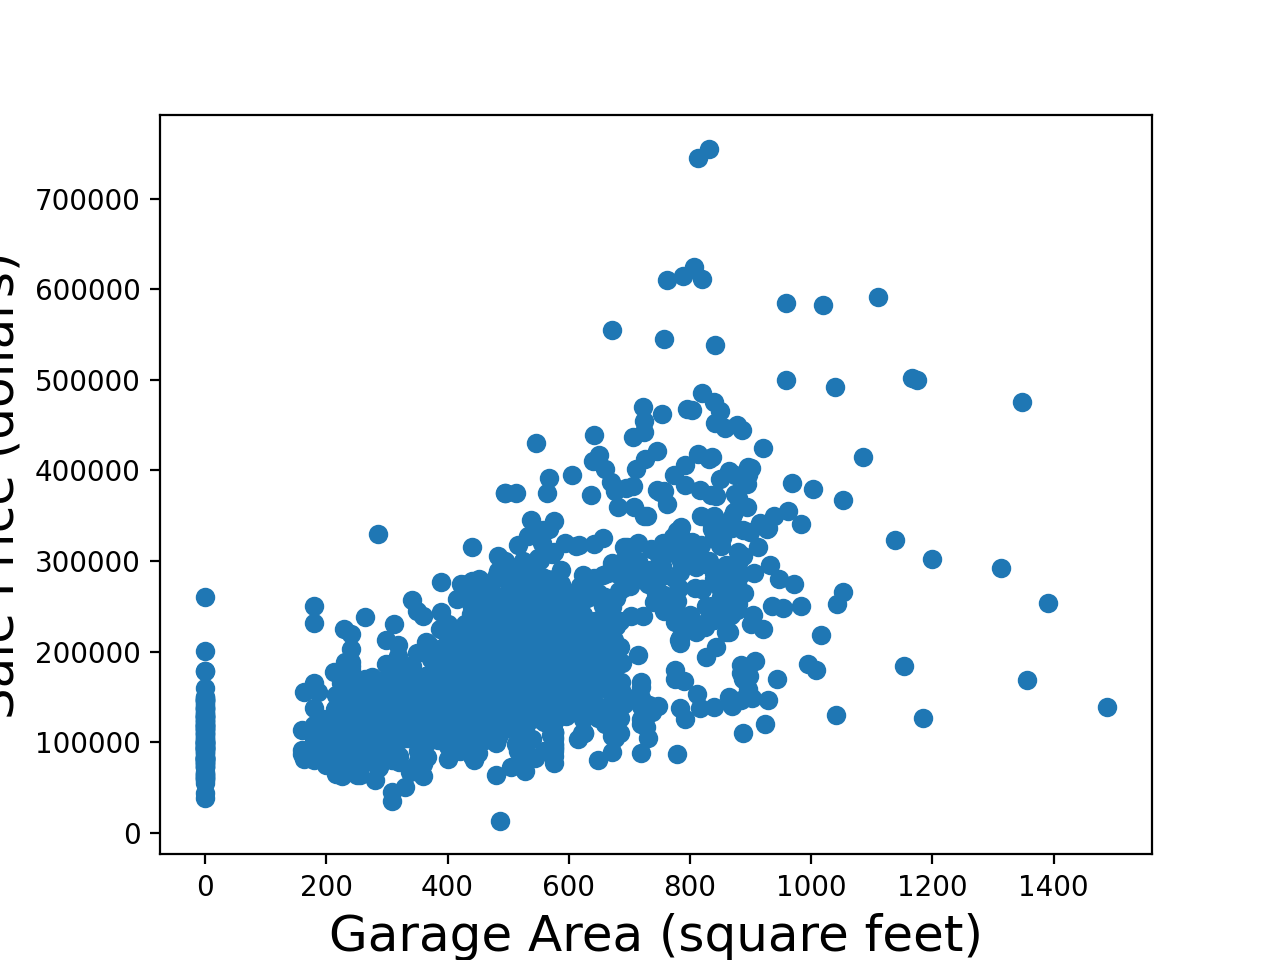
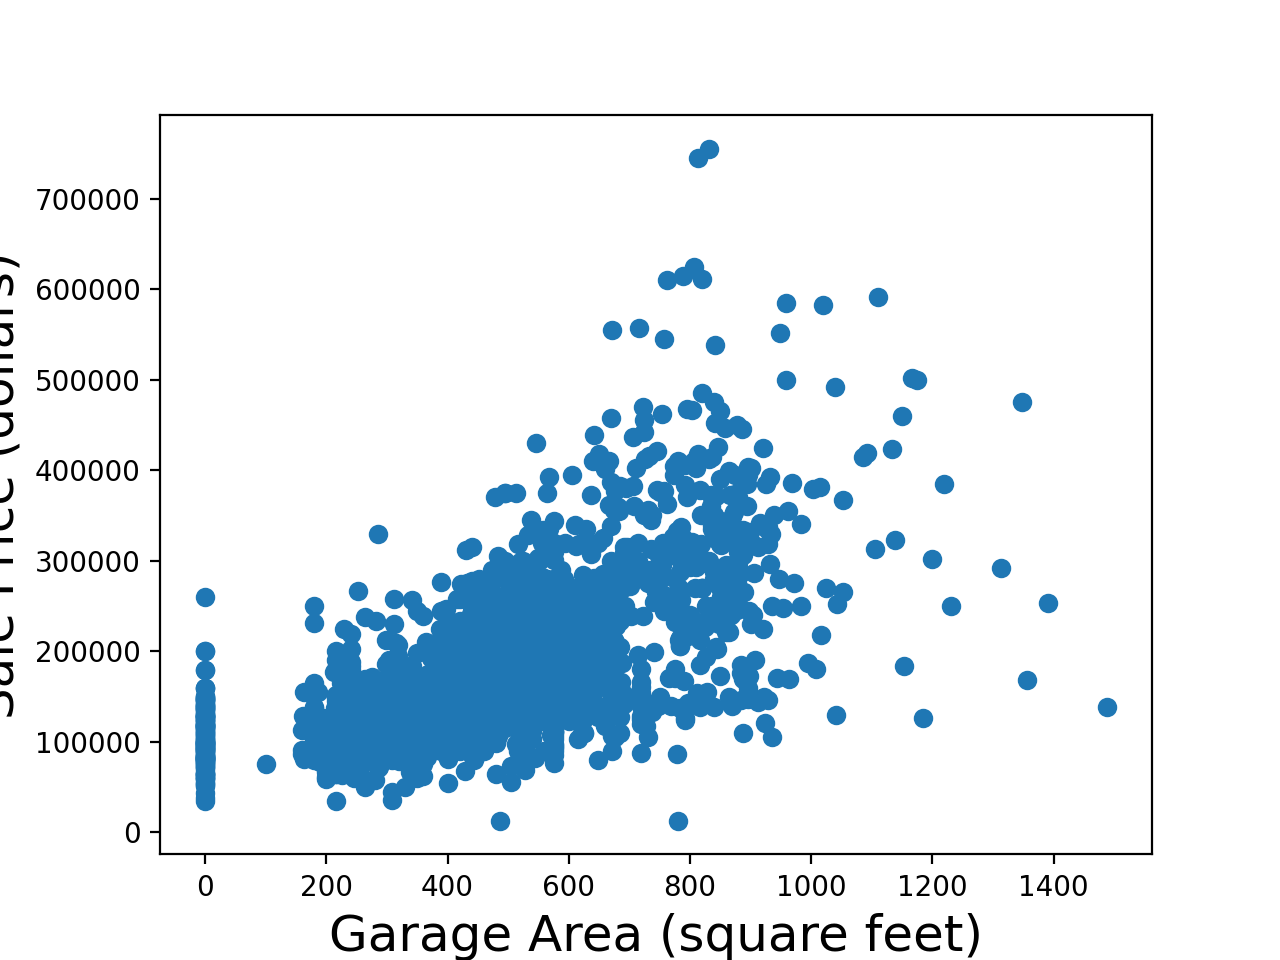
scaling the polynomial

diff --git a/src/modelling.py b/src/modelling.py
@@ -77,37 +77,40 @@ imputer = SimpleImputer(
 scaler = MinMaxScaler()
 preprocess = Pipeline(steps = [("imp", imputer) , ('minmaxscale', scaler)])
 
-for columns in columns_to_use:
-    X_train[columns] = X_train[columns].preprocess()
+X_train = X_train.fillna(0)
+
+#for columns in columns_to_use:
+ #   X_train[columns] = X_train[columns].preprocess()
+
 
 
 #looking at data
 plt.figure()
-plt.scatter(X_train['Overall Qual'], y_train)
+plt.scatter(all_data['Overall Qual'], all_data["SalePrice"])
 plt.ylabel('Sale Price (dollars)', fontsize = 18)
 plt.xlabel('Overall Quality', fontsize = 18)
 plt.savefig("graphs/OverallQual")
 
 plt.figure()
-plt.scatter(X_train["Total Bsmt SF"], y_train)
+plt.scatter(all_data["Total Bsmt SF"], all_data["SalePrice"])
 plt.ylabel('Sale Price (dollars)', fontsize = 18)
 plt.xlabel('total Bsmt (square feet)', fontsize = 18)
 plt.savefig("graphs/Total_Bsmt_SF")
 
 plt.figure()
-plt.scatter(X_train['Garage Area'], y_train)
+plt.scatter(all_data['Garage Area'], all_data["SalePrice"])
 plt.ylabel('Sale Price (dollars)', fontsize = 18)
 plt.xlabel('Garage Area (square feet)', fontsize = 18)
 plt.savefig("graphs/garage_area")
 
 plt.figure()
-plt.scatter(X_train["Lot Area"], y_train)
+plt.scatter(all_data["Lot Area"], all_data["SalePrice"])
 plt.ylabel('Sale Price (dollars)', fontsize = 18)
 plt.xlabel('Lot Area (square feet)', fontsize = 18)
 plt.savefig("graphs/lot_area")
 
 plt.figure()
-plt.scatter(X_train["Bedroom AbvGr"], y_train)
+plt.scatter(all_data["Bedroom AbvGr"], all_data["SalePrice"])
 plt.ylabel('Sale Price (dollars)', fontsize = 18)
 plt.xlabel("Bedroom AbvGr", fontsize = 18)
 plt.savefig("graphs/Bedroom_AbvGr")
@@ -117,14 +120,12 @@ plt.savefig("graphs/Bedroom_AbvGr")
 x_Traingarage = X_train['Garage Area'].values.reshape(-1,1)
 y_Traingarage = y_train.values.reshape(-1,1)
 
-pipe_garage_area = preprocess.fit(X_Traingarage)
+pipe_garage_area = preprocess.fit(x_Traingarage)
 
 # Transform the input features, without regularization
 Poly = PolynomialFeatures(degree = 10, include_bias = False)
-xTrainPoly = Poly.fit_transform(x_Traingarage) ##fill empty values!!
-
-
-# scaler.scale_, scaler.mean_
+xTrainPoly = Poly.fit_transform(x_Traingarage)
+xTrainPolyStan = scaler.fit_transform(xTrainPoly)
 
 
 #models
@@ -134,10 +135,10 @@ lasso_model = Lasso()
 elastic_model = ElasticNet()
 
 #fit model to polynomial
-chosen_model.fit(xTrainPolyStan, yTraingarage)
-ridge_model.fit(xTrainPolyStan, yTraingarage)
-lasso_model.fit(xTrainPolyStan, yTraingarage)
-elastic_model.fit(xTrainPolyStan, yTraingarage)
+chosen_model.fit(xTrainPolyStan, y_Traingarage)
+ridge_model.fit(xTrainPolyStan, y_Traingarage)
+lasso_model.fit(xTrainPolyStan, y_Traingarage)
+elastic_model.fit(xTrainPolyStan, y_Traingarage)
 
 #predict linear model
 xFit = np.linspace(0,1500,num=200).reshape(-1,1)
